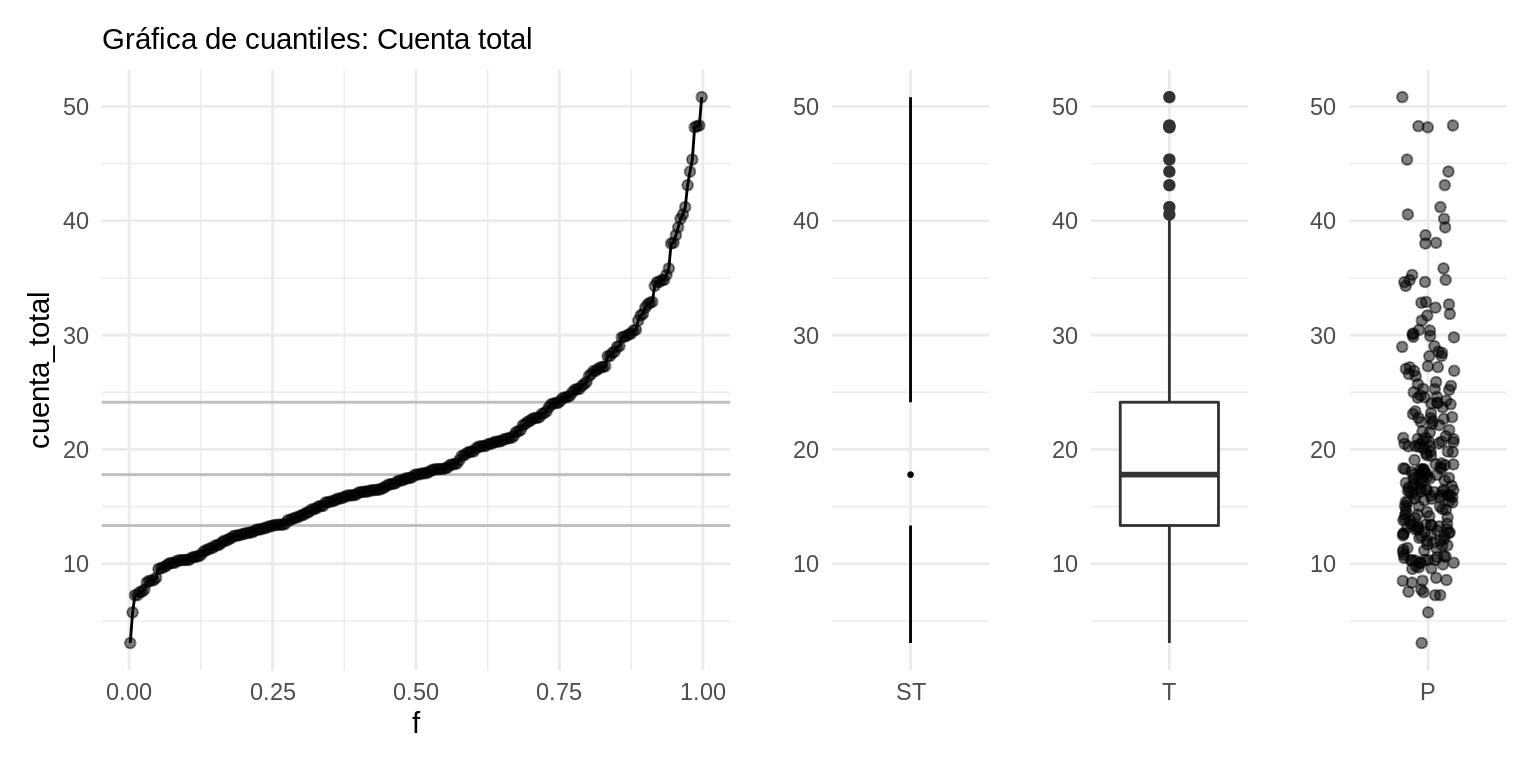
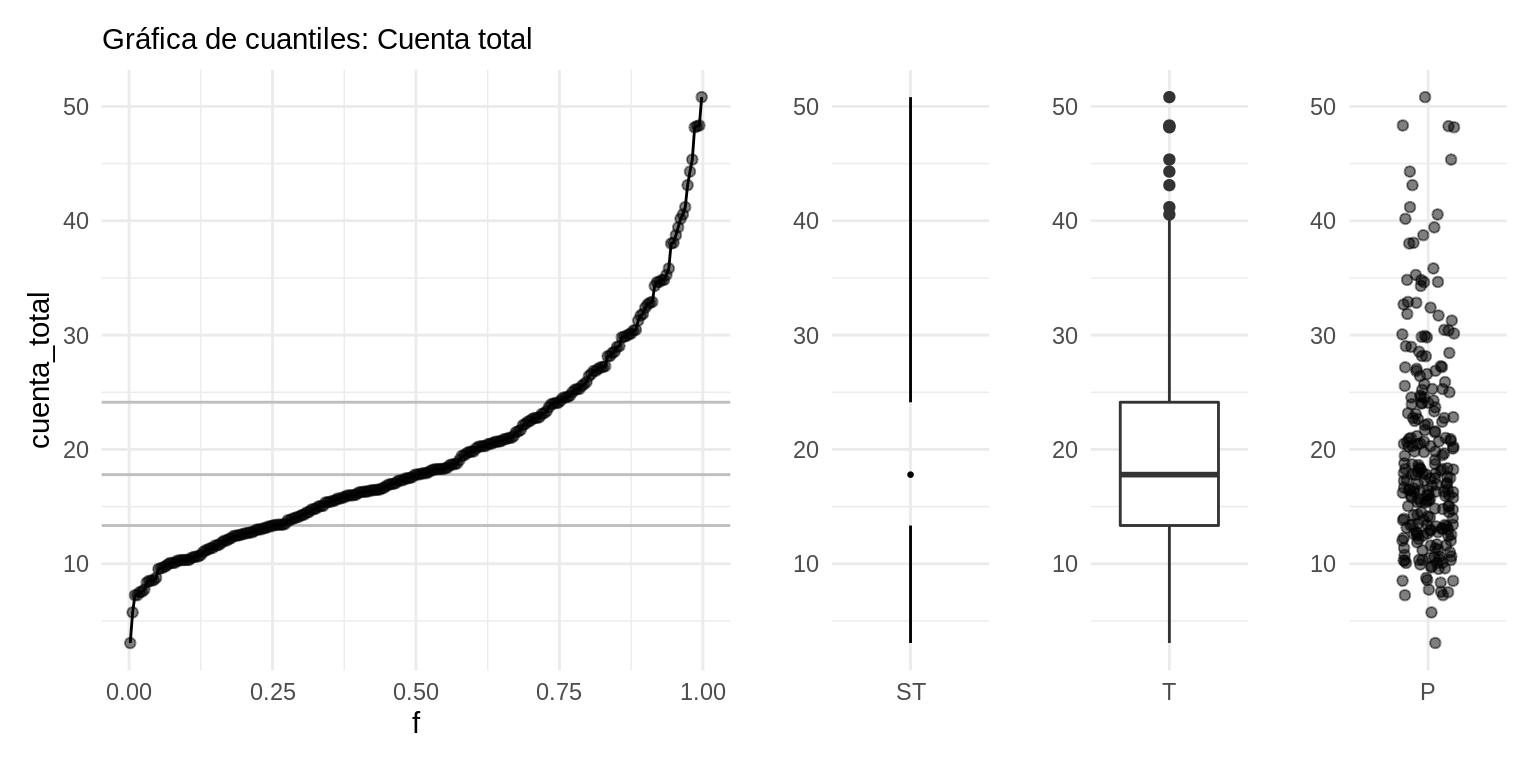
tereom published a site update

Changed region(s): [[0.9062, 0.125, 0.9688, 0.8438]]

diff --git a/análisis-exploratorio.html b/análisis-exploratorio.html
@@ -313,60 +313,44 @@ cuatro días consecutivos:</p>
 </thead>
 <tbody>
 <tr class="odd">
-<td align="right">27.18</td>
-<td align="right">2.00</td>
-<td align="left">Si</td>
-<td align="left">Sab</td>
-<td align="left">Cena</td>
+<td align="right">24.71</td>
+<td align="right">5.85</td>
+<td align="left">No</td>
+<td align="left">Jue</td>
+<td align="left">Comida</td>
 <td align="right">2</td>
 </tr>
 <tr class="even">
-<td align="right">13.00</td>
+<td align="right">12.26</td>
 <td align="right">2.00</td>
-<td align="left">Si</td>
+<td align="left">No</td>
 <td align="left">Jue</td>
 <td align="left">Comida</td>
 <td align="right">2</td>
 </tr>
 <tr class="odd">
-<td align="right">16.99</td>
-<td align="right">1.01</td>
+<td align="right">12.43</td>
+<td align="right">1.80</td>
 <td align="left">No</td>
-<td align="left">Dom</td>
-<td align="left">Cena</td>
+<td align="left">Jue</td>
+<td align="left">Comida</td>
 <td align="right">2</td>
 </tr>
 <tr class="even">
-<td align="right">10.51</td>
-<td align="right">1.25</td>
-<td align="left">No</td>
-<td align="left">Sab</td>
-<td align="left">Cena</td>
-<td align="right">2</td>
-</tr>
-<tr class="odd">
-<td align="right">18.69</td>
-<td align="right">2.31</td>
-<td align="left">No</td>
-<td align="left">Sab</td>
-<td align="left">Cena</td>
-<td align="right">3</td>
-</tr>
-<tr class="even">
-<td align="right">17.81</td>
-<td align="right">2.34</td>
+<td align="right">18.35</td>
+<td align="right">2.50</td>
 <td align="left">No</td>
 <td align="left">Sab</td>
 <td align="left">Cena</td>
 <td align="right">4</td>
 </tr>
 <tr class="odd">
-<td align="right">34.81</td>
-<td align="right">5.20</td>
+<td align="right">13.42</td>
+<td align="right">1.68</td>
 <td align="left">No</td>
-<td align="left">Dom</td>
-<td align="left">Cena</td>
-<td align="right">4</td>
+<td align="left">Jue</td>
+<td align="left">Comida</td>
+<td align="right">2</td>
 </tr>
 <tr class="even">
 <td align="right">14.00</td>
@@ -377,20 +361,36 @@ cuatro días consecutivos:</p>
 <td align="right">2</td>
 </tr>
 <tr class="odd">
-<td align="right">16.66</td>
-<td align="right">3.40</td>
+<td align="right">15.42</td>
+<td align="right">1.57</td>
+<td align="left">No</td>
+<td align="left">Dom</td>
+<td align="left">Cena</td>
+<td align="right">2</td>
+</tr>
+<tr class="even">
+<td align="right">16.43</td>
+<td align="right">2.30</td>
 <td align="left">No</td>
 <td align="left">Jue</td>
 <td align="left">Comida</td>
 <td align="right">2</td>
 </tr>
-<tr class="even">
-<td align="right">24.06</td>
-<td align="right">3.60</td>
-<td align="left">No</td>
+<tr class="odd">
+<td align="right">11.24</td>
+<td align="right">1.76</td>
+<td align="left">Si</td>
 <td align="left">Sab</td>
 <td align="left">Cena</td>
-<td align="right">3</td>
+<td align="right">2</td>
+</tr>
+<tr class="even">
+<td align="right">17.51</td>
+<td align="right">3.00</td>
+<td align="left">Si</td>
+<td align="left">Dom</td>
+<td align="left">Cena</td>
+<td align="right">2</td>
 </tr>
 </tbody>
 </table>

diff --git a/02-exploratorio.md b/02-exploratorio.md
@@ -89,16 +89,16 @@ sample_n(propinas, 10) %>% formatear_tabla()
 
 | cuenta_total| propina|fumador |dia |momento | num_personas|
 |------------:|-------:|:-------|:---|:-------|------------:|
-|        27.18|    2.00|Si      |Sab |Cena    |            2|
-|        13.00|    2.00|Si      |Jue |Comida  |            2|
-|        16.99|    1.01|No      |Dom |Cena    |            2|
-|        10.51|    1.25|No      |Sab |Cena    |            2|
-|        18.69|    2.31|No      |Sab |Cena    |            3|
-|        17.81|    2.34|No      |Sab |Cena    |            4|
-|        34.81|    5.20|No      |Dom |Cena    |            4|
+|        24.71|    5.85|No      |Jue |Comida  |            2|
+|        12.26|    2.00|No      |Jue |Comida  |            2|
+|        12.43|    1.80|No      |Jue |Comida  |            2|
+|        18.35|    2.50|No      |Sab |Cena    |            4|
+|        13.42|    1.68|No      |Jue |Comida  |            2|
 |        14.00|    3.00|No      |Sab |Cena    |            2|
-|        16.66|    3.40|No      |Jue |Comida  |            2|
-|        24.06|    3.60|No      |Sab |Cena    |            3|
+|        15.42|    1.57|No      |Dom |Cena    |            2|
+|        16.43|    2.30|No      |Jue |Comida  |            2|
+|        11.24|    1.76|Si      |Sab |Cena    |            2|
+|        17.51|    3.00|Si      |Dom |Cena    |            2|
 
 
 Aquí la unidad de observación es una cuenta particular. Tenemos tres mediciones
